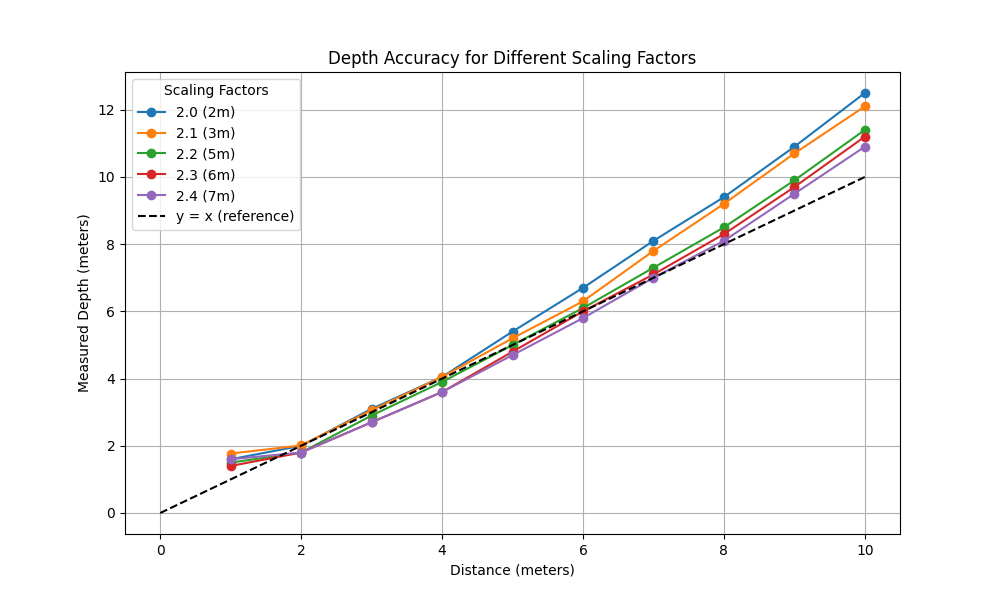
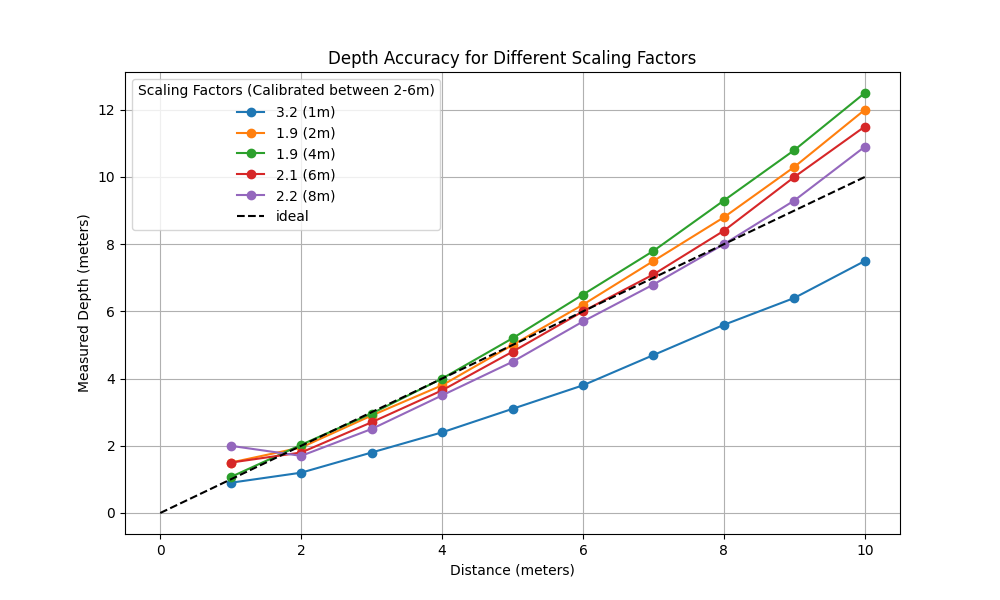
New measurements and figures

diff --git a/Validation/DepthCheck.py b/Validation/DepthCheck.py
@@ -30,13 +30,13 @@ plt.figure(figsize=(10, 6))
 for scaling_factor, points in data.items():
     plt.plot(points["x"], points["y"], marker='o', label=scaling_factor)
 
-plt.plot([0, 10], [0, 10], linestyle='--', color='black', label='y = x (reference)')
+plt.plot([0, 10], [0, 10], linestyle='--', color='black', label='ideal')
 
 # Add labels, title, and legend
 plt.xlabel("Distance (meters)")
 plt.ylabel("Measured Depth (meters)")
 plt.title("Depth Accuracy for Different Scaling Factors")
-plt.legend(title="Scaling Factors")
+plt.legend(title="Scaling Factors (Calibrated between 2-6m)")
 plt.grid(True)
 plt.savefig("Validation/DepthCheck.png")     # Save image
 
@@ -50,11 +50,11 @@ for scaling_factor, points in data.items():
     plt.plot(points["x"], differences, marker='o', label=scaling_factor)
 
 # Add a horizontal line at y = 0 for reference
-plt.axhline(0, color='gray', linestyle='--', label='y = 0 (reference)')
+plt.axhline(0, color='gray', linestyle='--', label='ideal')
 
 # Add labels, title, and legend
 plt.xlabel("Distance (meters)")
-plt.ylabel("Difference (Measured Depth - Real Distance) (meters)")
+plt.ylabel("Error (meters)")
 plt.title("Difference Between Measured Depth and Real Distance")
 plt.legend(title="Scaling Factors")
 plt.grid(True)
